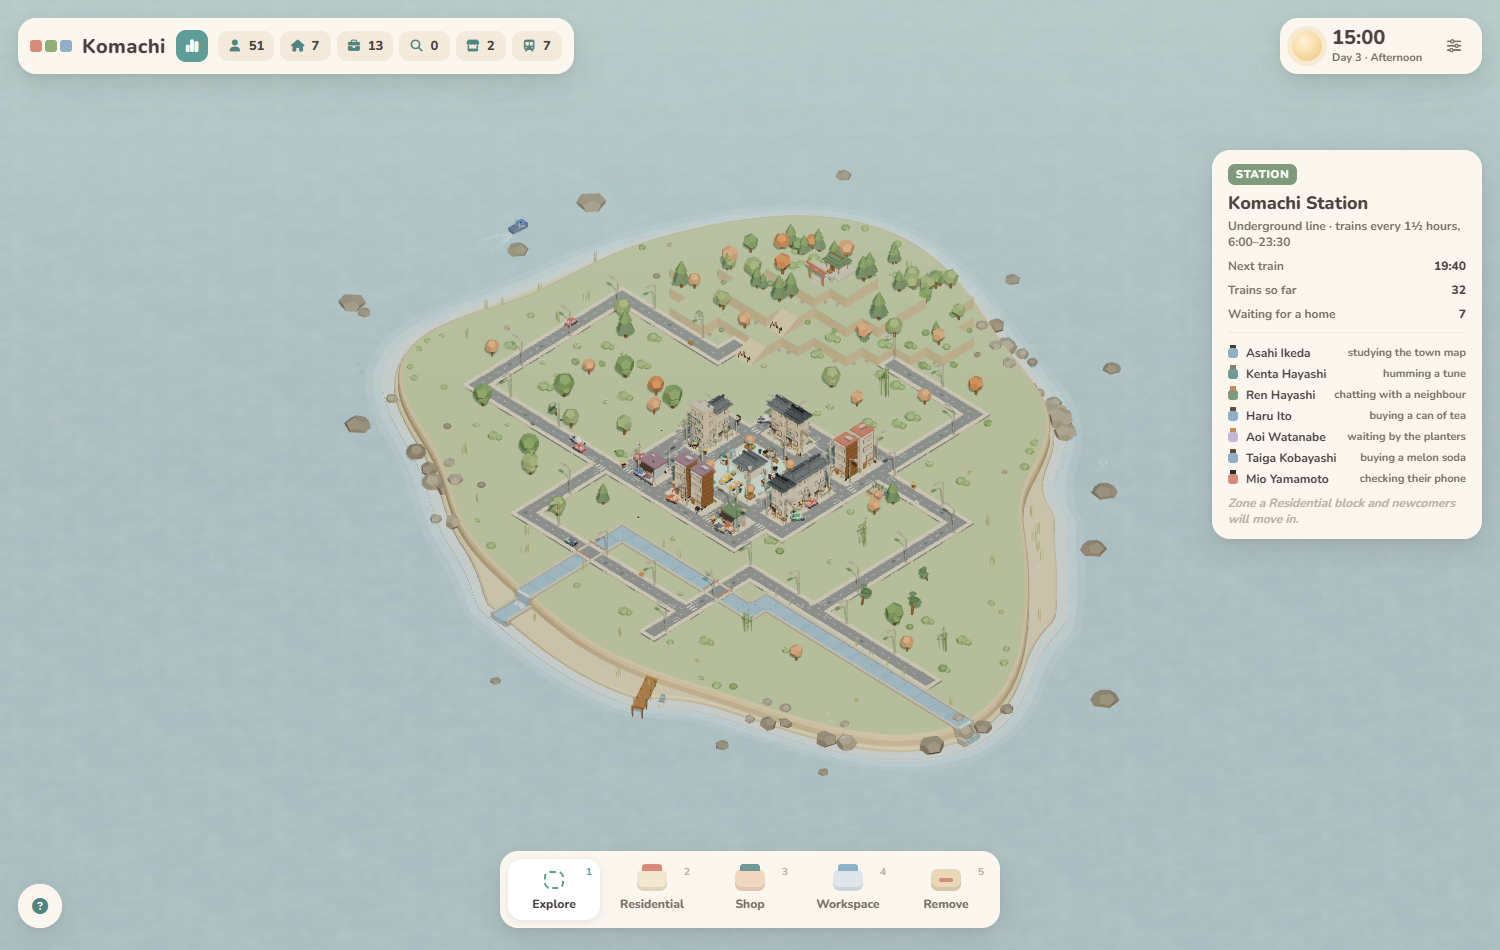
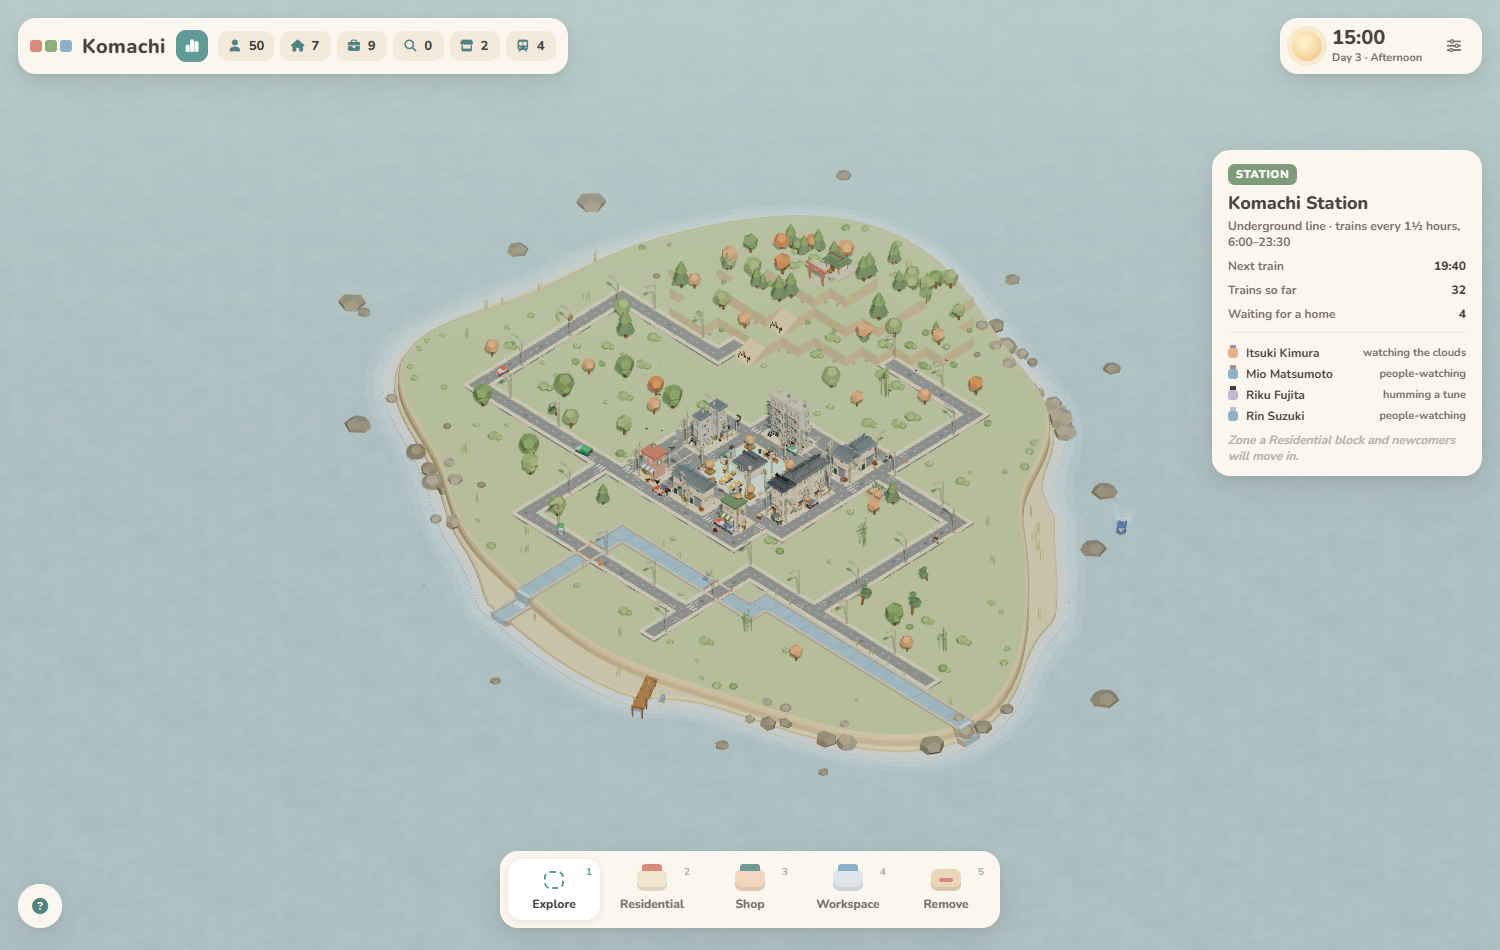
add street lamp at the station

diff --git a/src/world.js b/src/world.js
@@ -324,10 +324,13 @@ function rebuildRoads() {
         lg.push(box(0.1, 0.12, 0.01, PAL.pink, px + Math.cos(ry) * -0.1, 0.5, pz - Math.sin(ry) * -0.1 + Math.sin(ry) * 0 , ry)); lg.push(box(0.12, 0.08, 0.01, PAL.roofBlue, px + Math.cos(ry) * 0.09, 0.52, pz - Math.sin(ry) * 0.09, ry));
       }
     }
-    let byStation = false; for (let dj = -1; dj <= 1 && !byStation; dj++) for (let di = -1; di <= 1 && !byStation; di++) { const n = cell(c.i + di, c.j + dj); if (n && n.type === 'lot' && n.block && n.block.type === 'station') byStation = true; }   // the whole ring road around the plaza
     // a lamp wherever a street passes a building (most cells), and every third cell along any other street, so ring
-    // roads, avenues, the coast road and hill streets are lit too; the plaza has its own lamps, bridges and slopes none
-    const lampHere = !byStation && !c.bridge && !c.ramp && ((h > 0.5 && lotAdjacent4(c)) || ((c.i * 2 + c.j) % 3 === 0 && deg <= 2 && !isDbl));
+    // roads, avenues, the coast road and hill streets are lit too; bridges and slopes have none
+    let byStation = false; for (let dj = -1; dj <= 1 && !byStation; dj++) for (let di = -1; di <= 1 && !byStation; di++) { const n = cell(c.i + di, c.j + dj); if (n && n.type === 'lot' && n.block && n.block.type === 'station') byStation = true; }
+    // around the station only the middle cell of each ring-road side carries a lamp, so the plaza is not hemmed in by poles
+    const sc = STATION.anchor ? STATION.anchor.cell : null, sdi = sc ? Math.abs(c.i - sc.i) : 9, sdj = sc ? Math.abs(c.j - sc.j) : 9;
+    const ringMid = byStation && ((sdi === 2 && sdj === 0) || (sdj === 2 && sdi === 0));
+    const lampHere = !c.bridge && !c.ramp && (byStation ? ringMid : ((h > 0.5 && lotAdjacent4(c)) || ((c.i * 2 + c.j) % 3 === 0 && deg <= 2 && !isDbl)));
     if (lampHere) {
       const d = DIR4.find(([di, dj]) => { const n = cell(c.i + di, c.j + dj); return n && n.type === 'lot'; }) || DIR4.find(([di, dj]) => { const n = cell(c.i + di, c.j + dj); return n && n.type !== 'road' && n.type !== 'water' && n.type !== 'canal'; }) || DIR4.find(([di, dj]) => { const n = cell(c.i + di, c.j + dj); return n && n.type !== 'road'; });
       if (!d) { /* a street with roads on all four sides: no kerb to stand on */ } else {
@@ -342,8 +345,8 @@ function rebuildRoads() {
       const hx = px + ax * 0.4, hz = pz + az * 0.4, hy = top + 0.12;
       const housing = new THREE.BoxGeometry(0.13, 0.05, 0.24); housing.rotateY(ry); housing.translate(hx, hy, hz); lg.push(colorize(housing, PAL.lamp));
       const head = new THREE.Mesh(new THREE.BoxGeometry(0.1, 0.015, 0.2), lampHeadMat); head.rotation.y = ry; head.position.set(hx, hy - 0.03, hz); head.castShadow = false; scene.add(head); lampHeads.push(head);
-      cones.push(lightCone(hx, hy - 0.03, hz, 0.07, 0.62, PAL.lampGlow));
-      const gl = makeGlow(hx, 0.125, hz, 2.0); gl.material = lampGlowMat; scene.add(gl); lampGlows.push(gl);
+      cones.push(lightCone(hx, hy - 0.03, hz, 0.06, 0.4, PAL.lampGlow));
+      const gl = makeGlow(hx, 0.125, hz, 1.5); gl.material = lampGlowMat; scene.add(gl); lampGlows.push(gl);
       }
     }
     if (gy) {   // lift everything this cell added to its terrace

diff --git a/src/buildings.js b/src/buildings.js
@@ -342,10 +342,6 @@ function koban(g, wg, x, z, rot) {
   parts.push(box(0.03, 0.03, 0.28, K.frame, -0.18, 0.12 + 0.05, 0)); parts.push(box(0.34, 0.03, 0.06, PAL.concrete, 0, 0.12 + 0.015, 0.17));
   for (const p of parts) { p.rotateY(rot); p.translate(x, 0, z); g.push(p); } for (const p of glow) { p.rotateY(rot); p.translate(x, 0, z); wg.push(p); }
 }
-function stationLamp(g, wg, x, z) {
-  g.push(cyl(0.025, 0.035, 0.95, PAL.lamp, x, 0.12 + 0.475, z, 6)); g.push(box(0.12, 0.05, 0.12, PAL.lamp, x, 0.12 + 0.03, z));
-  wg.push(box(0.13, 0.11, 0.13, PAL.window, x, 0.12 + 1.0, z)); g.push(box(0.17, 0.03, 0.17, PAL.lamp, x, 0.12 + 1.07, z));
-}
 function genStation(b, u, g, wg) {
   const { di, dj } = u, y0 = 0.12;
   if (di === 0 && dj === 0) {
@@ -410,7 +406,7 @@ function genStation(b, u, g, wg) {
   g.push(box(0.36, 0.14, 0.36, PAL.wood, di * 0.25, y0 + 0.07, dj * 0.25));
   g.push(cyl(0.035, 0.045, 0.3, PAL.wood2, di * 0.25, y0 + 0.28, dj * 0.25, 5)); g.push(blob(0.24, u.seed < 0.5 ? PAL.treePeach : PAL.treeSage, di * 0.25, y0 + 0.5, dj * 0.25, 0, 0.9));
   g.push(blob(0.09, PAL.bush, di * 0.08, y0 + 0.18, dj * 0.3, 0, 0.8));
-  stationLamp(g, wg, -di * 0.32, -dj * 0.32);
+  // (the plaza is lit by the street lamps on its ring road and the pavilion's paper lamps; the old tall corner lamps are gone)
   if (di === dj) g.push(cyl(0.07, 0.06, 0.2, RAIL, -di * 0.32, y0 + 0.1, dj * 0.3, 8));   // a bin tucked by the lamp in two corners
   g.push(box(0.3, 0.005, 0.3, PAL.cream2, -di * 0.15, y0 + 0.003, dj * 0.15));
 }
@@ -430,7 +426,7 @@ function rebuildUnitMesh(u, pop = false) {
   if (LG.length && b.stage >= DONE) { const lm = mergeMesh(LG, false); grp.add(lm); u.laundry = lm; }   // hung out in the morning, taken in before dusk (daynight.js)
   if (b.type !== 'station') { const gl = makeGlow(0, 0.13, 0.15, 2.4); gl.material = u.glowMat; grp.add(gl); u.glow = gl; }
   else {   // the plaza is lit by its lamps, not by a glow per cell: corner lamps and the two lamps on the entrance arch
-    const spots = u.di && u.dj ? [[-u.di * 0.32, -u.dj * 0.32, 1.5]] : (!u.di && !u.dj) ? [[-0.2, 0.47, 0.9], [0.2, 0.47, 0.9]] : [];
+    const spots = (!u.di && !u.dj) ? [[-0.3, 0.3, 0.9], [0.3, 0.3, 0.9]] : [];   // the pavilion's two paper lamps
     for (const [gx, gz, gs] of spots) { const gl = makeGlow(gx, 0.135, gz, gs); gl.material = u.glowMat; grp.add(gl); if (!u.glow) u.glow = gl; }
   }
   grp.position.set(cx(u.cell.i), u.cell.h || 0, cz(u.cell.j)); grp.rotation.y = u.facing || 0;

diff --git a/src/geometry.js b/src/geometry.js
@@ -82,7 +82,7 @@ const coneMat = new THREE.MeshBasicMaterial({ vertexColors: true, transparent: t
 function lightCone(x, yTop, z, rTop, rBottom, hex) {
   const g = new THREE.CylinderGeometry(rTop, rBottom, yTop - 0.1, 14, 1, true).toNonIndexed();
   const c = new THREE.Color(hex), pos = g.attributes.position, col = new Float32Array(pos.count * 3), h = yTop - 0.1;
-  for (let k = 0; k < pos.count; k++) { const t = Math.max(0, Math.min(1, (pos.getY(k) + h / 2) / h)); const f = 0.02 + 0.6 * t * t * t; col[k * 3] = c.r * f; col[k * 3 + 1] = c.g * f; col[k * 3 + 2] = c.b * f; }
+  for (let k = 0; k < pos.count; k++) { const t = Math.max(0, Math.min(1, (pos.getY(k) + h / 2) / h)); const f = 0.01 + 0.5 * t * t * t * t; col[k * 3] = c.r * f; col[k * 3 + 1] = c.g * f; col[k * 3 + 2] = c.b * f; }
   g.setAttribute('color', new THREE.BufferAttribute(col, 3)); g.translate(x, 0.1 + h / 2, z); return g;
 }
 

diff --git a/src/daynight.js b/src/daynight.js
@@ -24,7 +24,7 @@ function envUpdate(realT) {
   sun.intensity = lerp(0.55, 1.6, d); C.tmp2.copy(C.sunDay).lerp(C.sunDusk, dusk * 0.7); sun.color.copy(C.moon).lerp(C.tmp2, d);
   fill.intensity = lerp(0.3, 0.35, d);
   renderer.toneMappingExposure = lerp(1.0, 1.05, d);
-  lampHeadMat.emissiveIntensity = night * 2.2; lampGlowMat.opacity = night * 0.75; coneMat.opacity = night * 0.2;
+  lampHeadMat.emissiveIntensity = night * 2.2; lampGlowMat.opacity = night * 0.5; coneMat.opacity = night * 0.07;   // a faint beam and a modest pool: the lamp head carries the brightness
   const shopOpen = h >= 7 && h < 22;
   for (const u of units.values()) {
     const occ = u.inside.size > 0, b = u.block;

diff --git a/CHANGELOG.md b/CHANGELOG.md
@@ -74,6 +74,10 @@ Phases 4 and 4.5 plus the polish that went with them.
 
 ### Changed
 
+- The station plaza lost its tall corner lamps; one ordinary street lamp stands mid-way along each side of its ring road, and
+  the pavilion's paper lamps light the entrance
+- Street lamps cast a much fainter, narrower beam and a smaller warm pool, so the light sits in the scene
+  instead of reading as pale triangles across the streets
 - CI retries the smoke test once, since a timing check can miss on the slow software-GL runner
 - Roadmap: building materials arrive on the ferry into a builders' yard by the pier (visual only, no effect on
   construction time)
